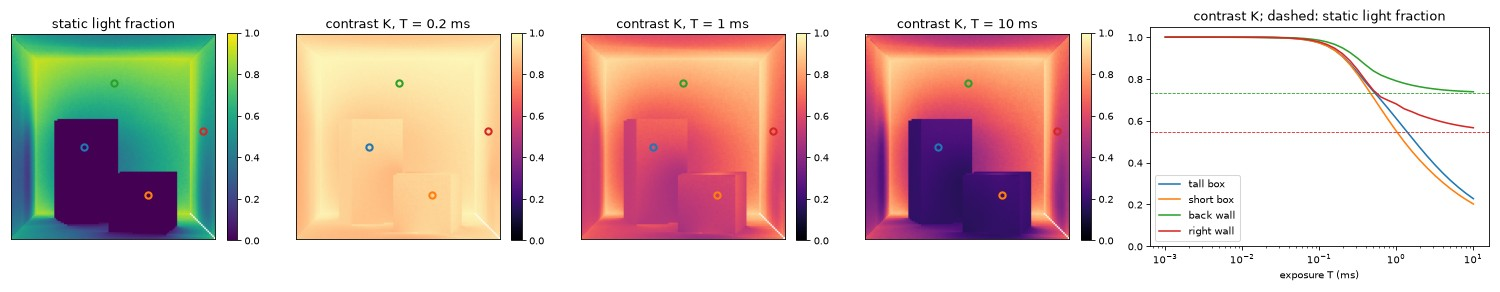
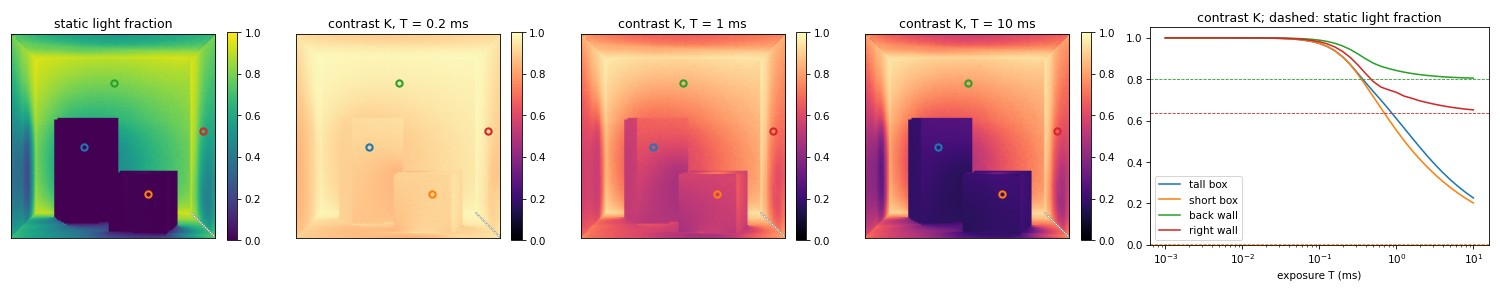
Docs: LSCI tutorial with 1024 bins; its numbers without the deep-clear error
The tutorial rendered a 4096-bin spectrum twice with reset() in between, and
the second spectrum kept part of the first above bin 1024 (the clear fixed in
3e146810): its static plateaus read 0.73 and 0.55 instead of 0.80 and 0.64.
With 1024 bins (15.6 Hz) the clear is complete also in falcorcomp 0.2.1,
whose results now match the fixed build exactly, and the contrast up to 10 ms
is unchanged (|dK| <= 0.001 against 4096 bins). New figure and thumbnail;
the script takes about 10 s.

diff --git a/docs_falcorcomp/src/tutorials/code/speckle_contrast_offline.py b/docs_falcorcomp/src/tutorials/code/speckle_contrast_offline.py
@@ -14,7 +14,7 @@ testbed.scene.camera.aspectRatio = 1.0
 testbed.clock.pause()
 
 # 2. Build the render graph
-F_MAX, BINS = 0.008, 4096  # Doppler shifts from -8 to 8 kHz (given in MHz), in bins of 3.9 Hz
+F_MAX, BINS = 0.008, 1024  # Doppler shifts from -8 to 8 kHz (given in MHz), in bins of 15.6 Hz
 
 graph = testbed.create_render_graph("SpeckleContrast")
 graph.create_pass("VBuffer", "VBufferRT", {"samplePattern": "Center", "sampleCount": 1})

diff --git a/docs_falcorcomp/src/tutorials/speckle_contrast_offline.md b/docs_falcorcomp/src/tutorials/speckle_contrast_offline.md
@@ -66,8 +66,8 @@ autocorrelation contains it with nothing added.
 
 As in the [Doppler spectrum tutorial](doppler_spectrum_offline.md), with a point light at the camera, which lights
 the whole scene as LSCI does. The motion is slow, as blood flow is: at 785 nm, the tall box coming towards the camera
-at 1 mm/s shifts light that it reflects once by $2v/\lambda \approx 2.5$ kHz. The spectrum covers -8 to 8 kHz in 4096
-bins of 3.9 Hz, fine enough for exposures up to 10 ms ($1 / \Delta f = 256$ ms).
+at 1 mm/s shifts light that it reflects once by $2v/\lambda \approx 2.5$ kHz. The spectrum covers -8 to 8 kHz in 1024
+bins of 15.6 Hz, fine enough for exposures up to 10 ms ($1 / \Delta f = 64$ ms).
 
 `computeDirect` is off. LSCI looks into tissue, where light scatters many times, and the speckle decorrelates
 because those paths have different shifts. A single reflection off a rigidly moving surface has a single shift and
@@ -108,7 +108,7 @@ the bin of zero shift.
 
 For short exposures $K = 1$: the speckle is fully developed. It starts to decorrelate around 0.1 ms, the inverse of
 the kHz spread of the shifts. All the light of the boxes is shifted, and their contrast keeps falling (0.2 at 10 ms).
-The walls level off at their static fraction: 0.73 on the back wall and 0.55 on the right wall, whose light partly
+The walls level off at their static fraction: 0.80 on the back wall and 0.64 on the right wall, whose light partly
 came by way of the boxes.
 
 ```{literalinclude} code/speckle_contrast_offline.py
@@ -116,8 +116,8 @@ came by way of the boxes.
 :start-after: "# 5. Show the contrast"
 ```
 
-The full script: {download}`speckle_contrast_offline.py <code/speckle_contrast_offline.py>`. It takes about 30 seconds
-and 2.5 GB of memory.
+The full script: {download}`speckle_contrast_offline.py <code/speckle_contrast_offline.py>`. It takes about 10 seconds
+and 1.5 GB of memory.
 
 (lsci-limitations)=
 ## Limitations
